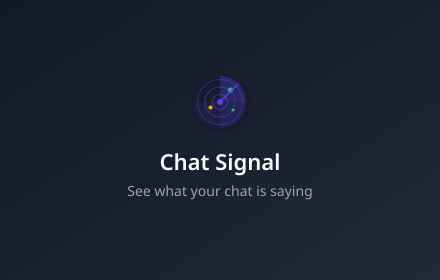
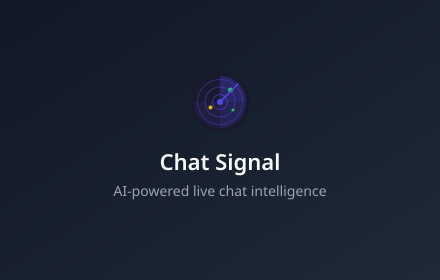
copy: pivot positioning from creator-focused to audience-agnostic
Reframe all user-facing copy to lead with universal value ("See what
live chat is really saying") instead of creator-specific pitch. Viewers
are the primary audience; creators and moderators are called out as
advanced capabilities. New tagline: "AI-powered live chat intelligence.
100% local. 100% private."

Updated: manifest.json, CWS store listing, CWS justifications, README,
CLAUDE.md, docs homepage, promo image script + regenerated PNG.

Changed region(s): [[0.2659, 0.6571, 0.7386, 0.7143]]

diff --git a/docs/cws-store-listing.md b/docs/cws-store-listing.md
@@ -7,23 +7,25 @@ Copy-paste reference for Chrome Web Store dashboard. Keep in sync with actual CW
 ## ITEM SUMMARY
 
 ```
-Real-time chat analysis for streamers and moderators. Works with YouTube and Twitch live streams.
+See what live chat is really saying. AI-powered message clustering, sentiment, and trending topics. 100% local.
 ```
 
-Character count: 97 (limit: 132)
+Character count: 112 (limit: 132)
 
 ---
 
 ## ITEM DESCRIPTION
 
-Built for streamers and moderators who want to understand what their community is talking about in real time — without leaving their stream.
+See what live chat is really saying — without losing it in the scroll.
 
-Chat Signal analyzes live chat and shows you:
+Chat Signal analyzes YouTube and Twitch live chat in real-time and shows you:
 
-- **Questions from your audience** — nothing gets lost in the scroll
-- **Chat mood** — see whether your stream is excited, positive, confused, or negative
-- **Trending topics** — the words and emotes your community keeps repeating
-- **Session history** — review what your chat talked about after the stream ends
+- **Questions people are asking** — surfaced instantly so nothing gets buried
+- **Chat mood** — is the room excited, positive, confused, or frustrated?
+- **Trending topics** — the words and emotes that keep coming up
+- **Session history** — review what chat talked about after the stream ends
+
+**For creators and moderators:** Spot audience questions in real time, catch sentiment shifts early, and get an AI-generated summary of what happened during the stream.
 
 Free. No account needed. All processing happens locally in your browser — no chat data ever leaves your computer.
 

diff --git a/CLAUDE.md b/CLAUDE.md
@@ -4,7 +4,7 @@ This file provides guidance for Claude Code (or any AI assistant) when working w
 
 ## Project Overview
 
-Chat Signal Radar is a Chrome extension that analyzes YouTube and Twitch live chat in real-time using Rust + WebAssembly. It provides content creators with a real-time dashboard showing:
+Chat Signal Radar is a Chrome extension that analyzes YouTube and Twitch live chat in real-time using Rust + WebAssembly. It provides a real-time dashboard showing:
 
 - **Message Clustering**: Questions, Issues/Bugs, Requests, and General Chat
 - **Sentiment Analysis**: Overall chat mood (excited, positive, angry, negative, confused, neutral)

diff --git a/README.md b/README.md
@@ -1,6 +1,6 @@
 # 📡 Chat Signal Radar
 
-A Chrome extension that uses Rust + WebAssembly to analyze YouTube and Twitch live chat in real-time. Built for content creators who need to keep up with fast-moving chat streams.
+A Chrome extension that uses Rust + WebAssembly to analyze YouTube and Twitch live chat in real-time. See what the conversation is really about — questions, sentiment, trending topics — without losing it in the scroll.
 
 ## ✨ Features
 

diff --git a/docs/cws-justifications.md b/docs/cws-justifications.md
@@ -14,7 +14,7 @@ Chat Signal Radar analyzes YouTube and Twitch live chat in real-time, clustering
 
 ### sidePanel
 
-Shows the real-time chat analysis dashboard alongside the stream page so creators can monitor chat while watching.
+Shows the real-time chat analysis dashboard alongside the stream page so users can monitor chat insights while watching.
 
 ### storage
 

diff --git a/docs/index.md b/docs/index.md
@@ -5,6 +5,8 @@ permalink: /
 
 # Chat Signal
 
+AI-powered live chat intelligence. 100% local. 100% private.
+
 A Chrome extension that analyzes YouTube and Twitch live chat in real-time — clustering messages, detecting trends, and tracking sentiment.
 
 - [Privacy Policy](/privacy-policy)
